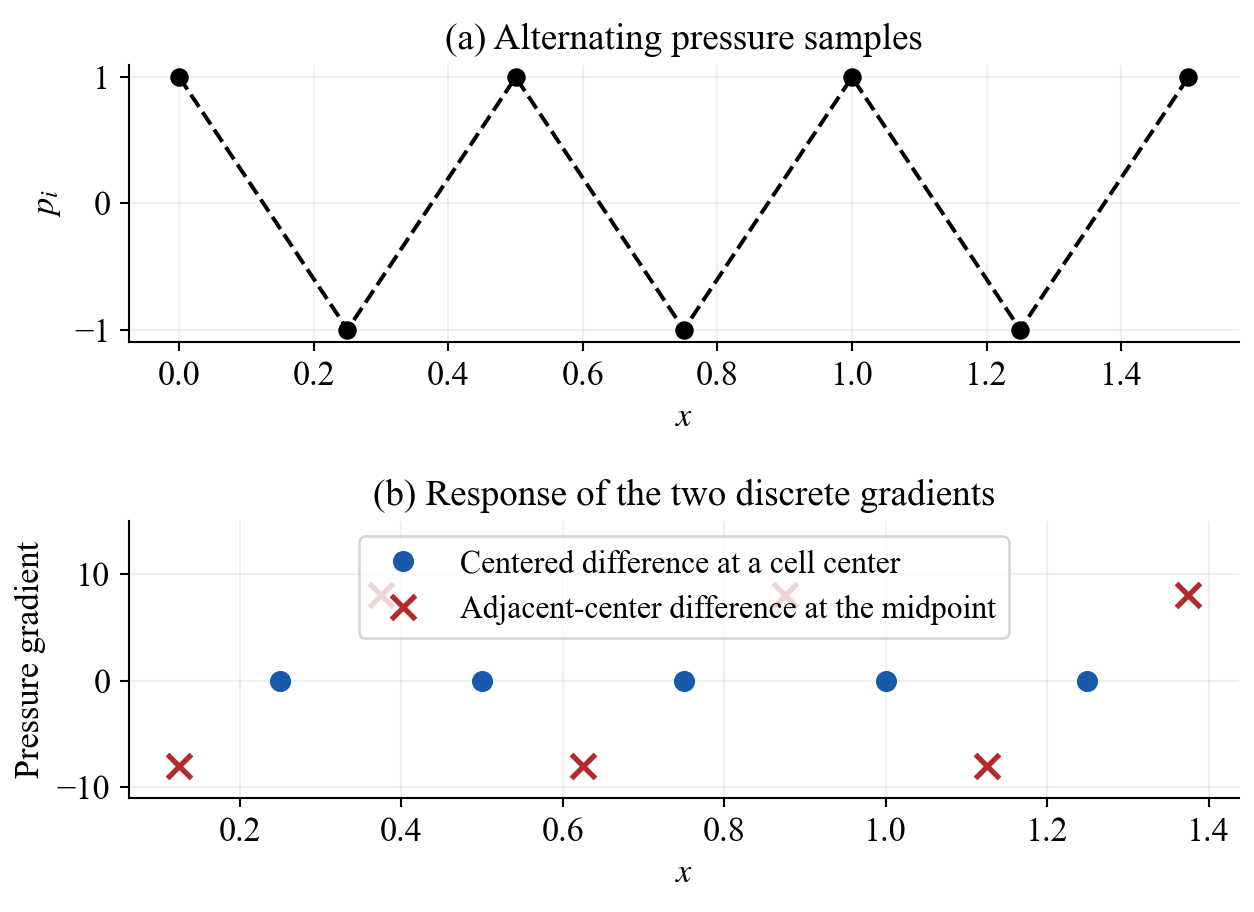
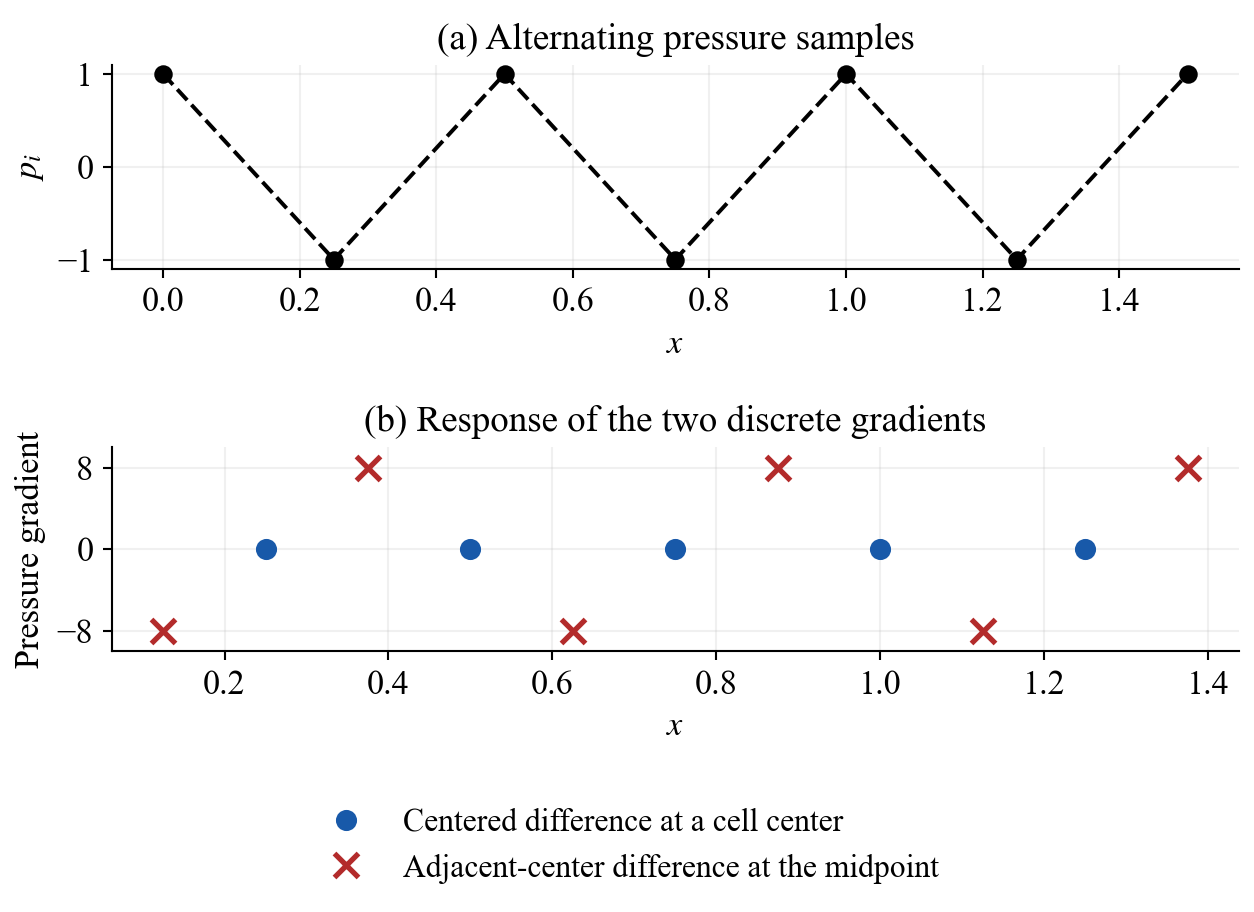
Keep the pressure-gradient legend clear of plotted samples

diff --git a/qa/refresh_week01_2_figures.py b/qa/refresh_week01_2_figures.py
@@ -177,8 +177,9 @@ def checkerboard():
     axes[1].plot(x[1:-1],(p[2:]-p[:-2])/.5,'o',c=BLUE,label='Centered difference at a cell center',ms=7)
     axes[1].plot((x[1:]+x[:-1])/2,(p[1:]-p[:-1])/.25,'x',c=RED,label='Adjacent-center difference at the midpoint',ms=9,mew=2)
     axes[1].set(ylabel='Pressure gradient',title='(b) Response of the two discrete gradients')
-    axes[1].legend(loc='upper center',ncols=1,fontsize=12)
-    axes[1].set_ylim(-11,15)
+    fig.legend(*axes[1].get_legend_handles_labels(),loc='outside lower center',
+               ncols=1,fontsize=12,frameon=False)
+    axes[1].set_ylim(-10,10);axes[1].set_yticks([-8,0,8])
     for ax in axes:ax.set_xlabel(r'$x$');ax.grid(alpha=.18)
     save(fig,'checkerboard_pressure')
 
